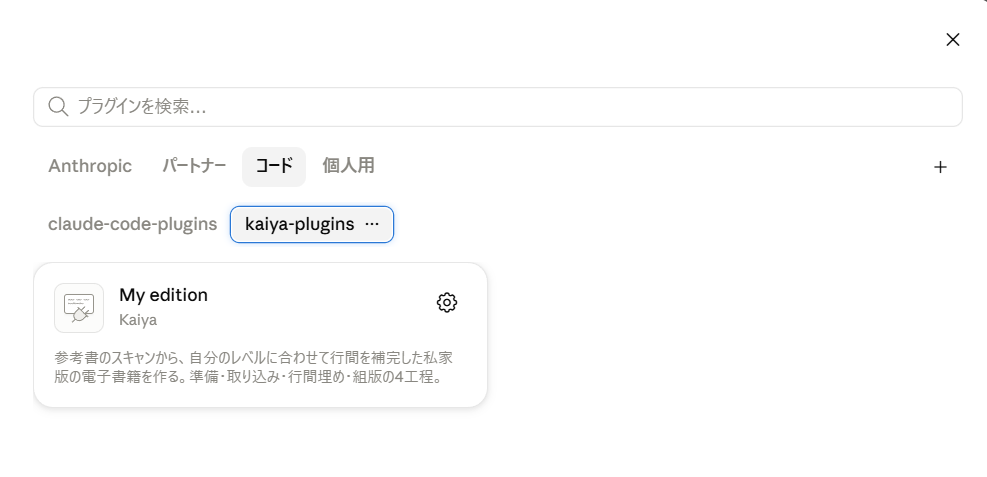
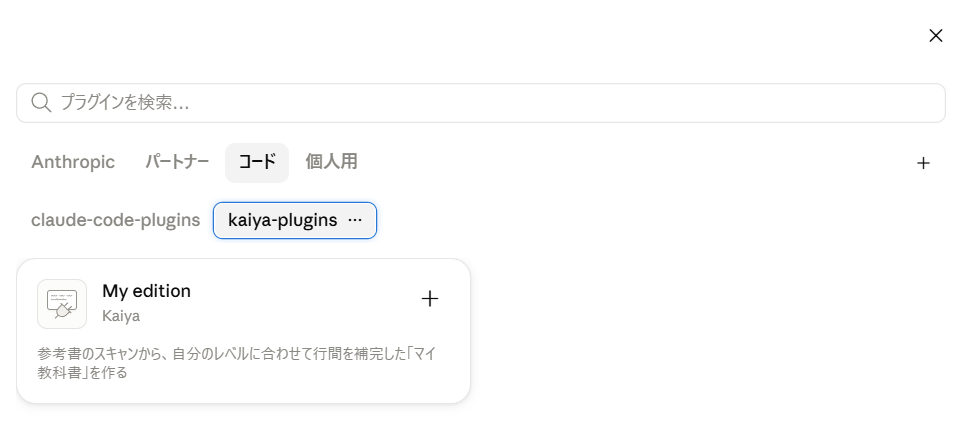
カードの画像を差し替え、入ったか確かめる手順を足す
前の画像はインストール済みの状態で、カードが歯車になっていた。
READMEは＋を押すと書いているので食い違っていた。
あわせて、スラッシュメニューで確認する手順を追加。

diff --git a/plugins/my-edition/README.md b/plugins/my-edition/README.md
@@ -80,6 +80,15 @@ Kaiya-study/claude-plugins
 入れる範囲を聞かれたら **「ユーザー」** を選んでください。
 どのフォルダで作業しても使えるようになります。
 
+### 4. 入ったか確かめる
+
+新しいセッションで `/my-` と打ってみてください。
+次のように候補が出れば、入っています。
+
+![スラッシュメニューに my-edition の工程が並ぶ](../../images/slash-menu.png)
+
+出てこないときは、アプリを完全に終了してから開き直してください。
+
 <details>
 <summary>ターミナルを使いたい場合</summary>
 

diff --git a/README.md b/README.md
@@ -41,6 +41,15 @@ Kaiya-study/claude-plugins
 入れる範囲を聞かれたら **「ユーザー」** を選んでください。
 どのフォルダで作業しても使えるようになります。
 
+### 4. 入ったか確かめる
+
+新しいセッションで `/my-` と打ってみてください。
+次のように候補が出れば、入っています。
+
+![スラッシュメニューに my-edition の工程が並ぶ](images/slash-menu.png)
+
+出てこないときは、アプリを完全に終了してから開き直してください。
+
 <details>
 <summary>ターミナルを使いたい場合</summary>
 
